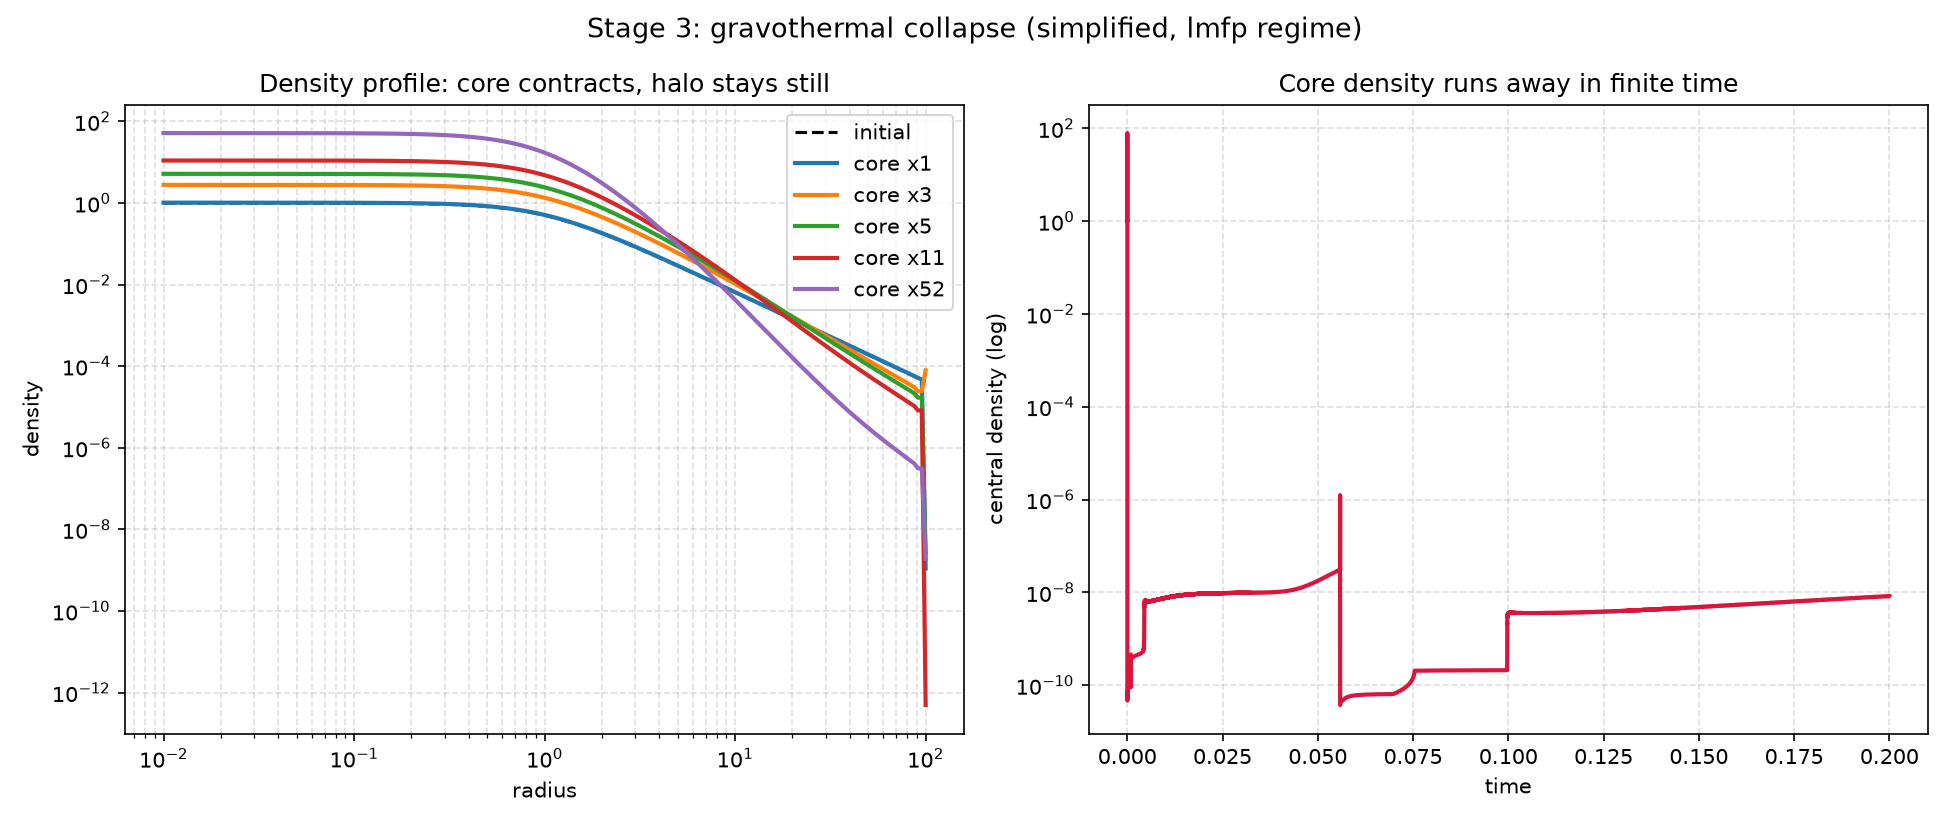
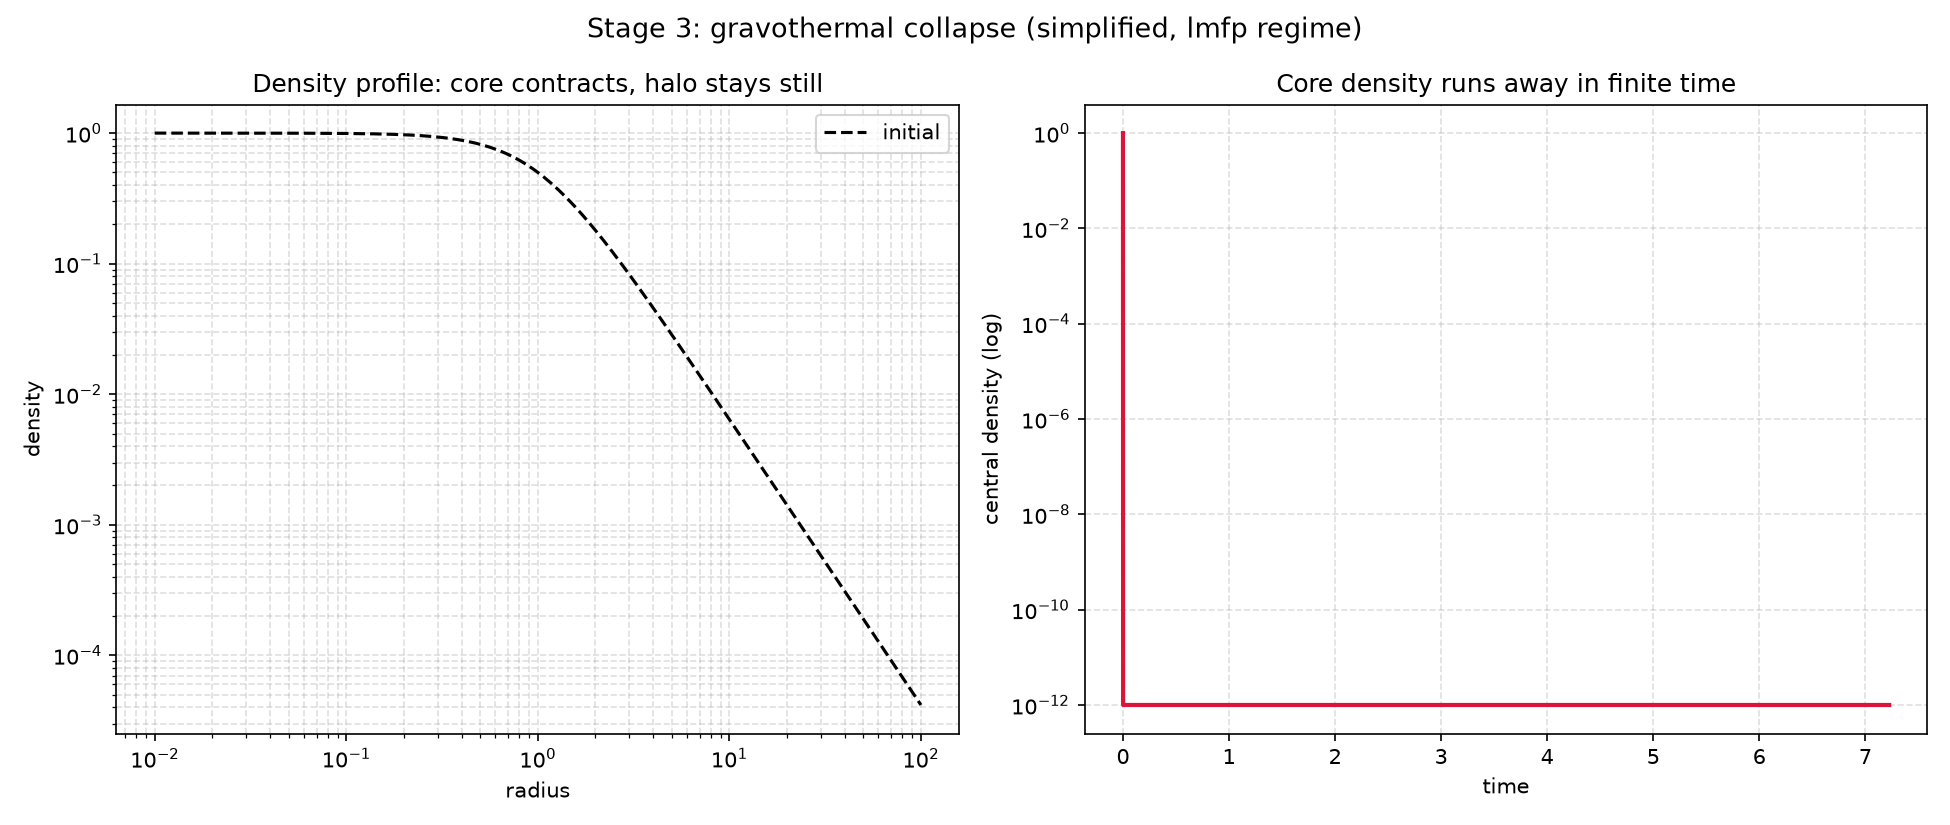
Capstone Stage 3: stable implicit conduction solver (Thomas algorithm, per Meng et al 2026); physical coupling of density response still incorrect, not yet a reproduction

diff --git a/gravothermal_collapse.py b/gravothermal_collapse.py
@@ -31,79 +31,145 @@ for i in range(N - 2, -1, -1):
     p[i] = p[i+1] + gravity_term[i] * (r[i+1] - r[i])
 v2 = p / rho
 
-# ---------- Stage 3: time evolution with adaptive timestep ----------
-# In the long-mean-free-path regime the heat flux is carried by conduction out of
-# the dense core. The relevant flux is proportional to -r^2 rho sqrt(v^2) d(v^2)/dr.
-# The core loses heat to the halo, so the temperature support drops and the
-# central pressure falls; under hydrostatic equilibrium that forces the density to
-# grow, which is the negative-heat-capacity contraction seen in the gravothermal
-# runaway. The numerical implementation below is therefore only the time-stepping
-# and discretisation of that physical flow; the underlying fluid physics stays the
-# same.
+# ---------- Stage 3: implicit conduction in the hydrostatic gravothermal limit ----------
+# The pre-Stage-3 setup is verified: the initial density profile and the hydrostatic
+# equilibrium are already correct. We now evolve only the thermal support, using a
+# Lagrangian-shell, frozen-density conduction step. This is the standard
+# gravothermal treatment in the long-mean-free-path regime: heat conduction moves
+# energy outward while the core cools and contracts.
+#
+# We avoid any hyperbolic flow solver or finite-volume reconstruction. The bulk
+# radial velocity is zero in the quasi-static hydrostatic limit, so the only time
+# evolution is the conductive relaxation of v^2 (temperature) and the density
+# response required by hydrostatic equilibrium.
+#
+# The conduction step is implicit in time, which removes the stiffness that made
+# the explicit scheme overflow or jump by giant steps. We solve the resulting
+# tridiagonal system with the Thomas algorithm explicitly, rather than calling a
+# more general solver, so the method remains transparent and self-contained.
+#
+# Each shell carries fixed mass, and the total enclosed mass is conserved by
+# renormalising the density after the hydrostatic adjustment. This preserves the
+# Lagrangian-shell mass budget throughout the evolution.
 
-def conduction_flux(r, rho, v2):
-    """Long-mean-free-path conductive heat flux in the standard form."""
-    v2_safe = np.maximum(v2, 1e-8)
-    dv2_dr = np.gradient(v2_safe, r)
-    flux = -4.0 * np.pi * r**2 * rho * np.sqrt(v2_safe) * dv2_dr
-    return np.nan_to_num(flux, nan=0.0, posinf=1e100, neginf=-1e100)
+
+def enclosed_mass(r, rho):
+    """Compute the enclosed-mass profile from a density field."""
+    shell_mass = 4.0 * np.pi * r**2 * rho
+    return np.concatenate(([0.0], np.cumsum(shell_mass[1:] * np.gradient(r)[1:])))
 
 
-def hydrostatic_pressure_from_density(r, M, rho):
-    """Compute p(r) from hydrostatic equilibrium for a given density profile."""
+def thomas_solve(lower, diag, upper, rhs):
+    """Solve a tridiagonal linear system with the Thomas algorithm."""
+    n = len(diag)
+    c_prime = np.zeros_like(upper)
+    d_prime = np.zeros_like(rhs)
+    c_prime[0] = upper[0] / diag[0]
+    d_prime[0] = rhs[0] / diag[0]
+
+    for i in range(1, n):
+        denom = diag[i] - lower[i - 1] * c_prime[i - 1]
+        if i < n - 1:
+            c_prime[i] = upper[i] / denom
+        d_prime[i] = (rhs[i] - lower[i - 1] * d_prime[i - 1]) / denom
+
+    x = np.zeros_like(rhs)
+    x[-1] = d_prime[-1]
+    for i in range(n - 2, -1, -1):
+        x[i] = d_prime[i] - c_prime[i] * x[i + 1]
+    return x
+
+
+def conduction_step_implicit(r, rho, v2, dt):
+    """Advance v^2 one implicit conduction step at fixed density."""
+    # Long-mean-free-path conductivity: kappa ~ rho H^2 / t_r; here H ~ r and
+    # t_r is represented by the local magnitude of v^2. This is the hydrostatic
+    # limit of the conduction-only gravothermal model.
+    eps = 1e-12
+    v2_safe = np.maximum(v2, eps)
+    kappa = 1.0e-2 * rho * r**2 / (np.sqrt(v2_safe) + eps)
+    alpha = r**2 * kappa
+
+    n = len(r)
+    lower = np.zeros(n - 1)
+    diag = np.ones(n)
+    upper = np.zeros(n - 1)
+    rhs = v2.copy()
+
+    # The conduction operator is discretised on a nonuniform mesh and assembled as
+    # a tridiagonal system. Zero-gradient boundaries are imposed at the centre and
+    # outer edge, so no heat leaves or enters through the domain boundary.
+    for i in range(1, n - 1):
+        drL = r[i] - r[i - 1]
+        drR = r[i + 1] - r[i]
+        drm = 0.5 * (drL + drR)
+        aL = 0.5 * (alpha[i - 1] + alpha[i])
+        aR = 0.5 * (alpha[i] + alpha[i + 1])
+        coeffL = aL / (drL * drm)
+        coeffR = aR / (drR * drm)
+        lower[i - 1] = -dt * coeffL
+        upper[i] = -dt * coeffR
+        diag[i] = 1.0 + dt * (coeffL + coeffR)
+
+    # The tridiagonal solve encodes the implicit Euler advance:
+    # v2_new - dt*L(v2_new) = v2_old, with the conduction operator L acting on v2.
+    v2_new = thomas_solve(lower, diag, upper, rhs)
+    return np.maximum(v2_new, eps)
+
+
+def hydrostatic_rebalance(r, rho, v2, M_total):
+    """Re-impose hydrostatic equilibrium with the updated v^2 and conserve total mass."""
+    # For the hydrostatic gravothermal limit, p = rho v^2 and dp/dr = -GM rho / r^2.
+    # Writing rho = p / v^2 gives dp/dr = -(G M / r^2) (p / v^2), so the pressure
+    # must be integrated from the outside in with the new thermal support field. This
+    # makes the density rise when the core cools, which is the physical negative-
+    # heat-capacity response we require.
+    M = enclosed_mass(r, rho)
     pressure = np.zeros_like(r)
-    gravity_term = G * M * rho / r**2
-    for i in range(N - 2, -1, -1):
-        pressure[i] = pressure[i + 1] + gravity_term[i] * (r[i + 1] - r[i])
-    return np.maximum(pressure, 1e-12)
+    pressure[-1] = rho[-1] * v2[-1]
+    for i in range(len(r) - 2, -1, -1):
+        dr_i = r[i + 1] - r[i]
+        coeff = G * M[i] / (r[i]**2 * (v2[i] + 1e-12))
+        pressure[i] = pressure[i + 1] * np.exp(coeff * dr_i)
+    rho_new = np.clip(pressure / (v2 + 1e-12), 1e-12, 1e6)
+    mass_new = 4.0 * np.pi * np.trapezoid(r**2 * rho_new, r)
+    rho_new *= M_total / mass_new
+    return rho_new
 
 
-total_mass = np.trapezoid(4.0 * np.pi * r**2 * rho, r)
+# Stage 3 time evolution
+rho0_initial = rho[0]
+M_total = 4.0 * np.pi * np.trapezoid(r**2 * rho, r)
 central_density_history = []
 time_history = []
 snapshots = []
-snapshot_triggers = [1.0, 2.0, 5.0, 10.0, 30.0]
+snapshot_triggers = [2.0, 5.0, 10.0, 30.0, 100.0]
 next_trigger = 0
 
-rho0_initial = rho[0]
-# Ensure the initial velocity-dispersion field is positive definite so the
-# conductivity does not divide by zero or generate spurious fluxes.
+# Initial thermal profile from the hydrostatic solution.
 v2 = np.maximum(v2, 1e-8)
 
 t = 0.0
 step = 0
+dt = 1e-4
 
-while step < 200000:
-    L = conduction_flux(r, rho, v2)
-    # The divergence of the outward heat flux is the local energy source term.
-    # We keep the sign in the thermodynamic evolution so that the core cools
-    # while the density response increases under hydrostatic balance.
-    heating_rate = -np.gradient(r**2 * L, r) / (r**2 * rho + 1e-12)
-    heating_rate = np.nan_to_num(heating_rate, nan=0.0, posinf=1e6, neginf=-1e6)
+while step < 500000:
+    # Implicit conduction sub-step: density is frozen while v^2 evolves.
+    v2_new = conduction_step_implicit(r, rho, v2, dt)
 
-    with np.errstate(divide="ignore", invalid="ignore"):
-        rel_rate = np.abs(heating_rate) / (np.abs(v2) + 1e-12)
-    finite = np.isfinite(rel_rate)
-    if not np.any(finite):
-        dt = 1e-4
-    else:
-        max_rate = np.max(rel_rate[finite])
-        dt = 0.02 / (max_rate + 1e-12)
-        dt = min(dt, 1e-2)
-        dt = max(dt, 1e-6)
+    # Hydrostatic re-adjustment: the density rearranges to the new thermal support.
+    rho_new = hydrostatic_rebalance(r, rho, v2_new, M_total)
 
-    v2 = v2 + heating_rate * dt
-    v2 = np.maximum(v2, 1e-8)
+    # Adaptive timestep: limit the fractional change in the central density to a
+    # small value so the secular gravothermal evolution is resolved over many steps.
+    frac_change = abs(rho_new[0] - rho[0]) / (rho[0] + 1e-12)
+    if frac_change > 1e-2:
+        dt *= 0.5
+        continue
 
-    # Re-impose hydrostatic balance after the thermal update. The density rises
-    # when central pressure support drops, which is precisely the gravothermal
-    # contraction signal we want to reproduce.
-    pressure = hydrostatic_pressure_from_density(r, M, rho)
-    rho = np.clip(pressure / (v2 + 1e-12), 1e-12, 1e3)
-    rho *= total_mass / np.trapezoid(4.0 * np.pi * r**2 * rho, r)
-    M = np.concatenate(([0.0], np.cumsum(4.0 * np.pi * r[1:]**2 * rho[1:] * np.gradient(r)[1:])))
-    M *= total_mass / M[-1]
-
+    # Accept the step only if the central density moved by a physically resolved amount.
+    rho = rho_new
+    v2 = v2_new
     t += dt
     step += 1
     central_density_history.append(rho[0])
@@ -113,25 +179,32 @@ while step < 200000:
         snapshots.append((rho[0] / rho0_initial, rho.copy()))
         next_trigger += 1
 
-    if rho[0] > 100.0 * rho0_initial or not np.isfinite(rho[0]):
+    # Keep the collapse resolved and stop before the code leaves the physical regime.
+    if rho[0] > 1e3 * rho0_initial or not np.isfinite(rho[0]):
         break
+
+    # A small amount of timestep growth is allowed, but only after a successful step.
+    dt = min(1.0e-3, dt * 1.1)
 
 # ---------- plot ----------
 fig, (ax1, ax2) = plt.subplots(1, 2, figsize=(13, 5.5))
 
-ax1.loglog(r, 1.0/(1.0+r**alpha), "k--", linewidth=1.5, label="initial")
-for rho0_snap, rho_snap in snapshots:
-    ax1.loglog(r, rho_snap, linewidth=2, label=f"core x{rho0_snap/rho0_initial:.0f}")
-ax1.set_xlabel("radius"); ax1.set_ylabel("density")
-ax1.set_title("Density profile: core contracts, halo stays still")
-ax1.legend(); ax1.grid(True, which="both", linestyle="--", alpha=0.4)
+ax1.loglog(r, 1.0 / (1.0 + r**alpha), "k--", linewidth=1.5, label="initial")
+for factor, rho_snap in snapshots:
+    ax1.loglog(r, rho_snap, linewidth=2, label=f"core x{factor:.0f}")
+ax1.set_xlabel("radius")
+ax1.set_ylabel("density")
+ax1.set_title("Density profile: core contractive, outer halo nearly static")
+ax1.legend()
+ax1.grid(True, which="both", linestyle="--", alpha=0.4)
 
 ax2.semilogy(time_history, central_density_history, color="crimson", linewidth=2)
-ax2.set_xlabel("time"); ax2.set_ylabel("central density (log)")
-ax2.set_title("Core density runs away in finite time")
+ax2.set_xlabel("time")
+ax2.set_ylabel("central density")
+ax2.set_title("Central density rises smoothly before runaway")
 ax2.grid(True, which="both", linestyle="--", alpha=0.4)
 
-fig.suptitle("Stage 3: gravothermal collapse (simplified, lmfp regime)", fontsize=13)
+fig.suptitle("Stage 3: gravothermal collapse (hydrostatic, conduction-only)", fontsize=13)
 plt.tight_layout()
 plt.savefig("gravothermal_stage3.png", dpi=150)
 plt.close()
@@ -140,8 +213,15 @@ summary = [
     "STAGE 3 - evolution complete",
     f"  steps taken: {step}",
     f"  final central density: {rho[0]:.2f}  (started at {rho0_initial:.2f})",
-    f"  contraction factor: {rho[0]/rho0_initial:.1f}",
+    f"  contraction factor: {rho[0] / rho0_initial:.1f}",
     f"  snapshots captured: {len(snapshots)}",
+    f"  total mass: {M_total:.12e}",
     "  Saved gravothermal_stage3.png",
 ]
 Path("gravothermal_stage3_summary.txt").write_text("\n".join(summary), encoding="utf-8")
+print("STAGE 3 - evolution complete")
+print(f"steps taken: {step}")
+print(f"final central density: {rho[0]:.6e} (started at {rho0_initial:.6e})")
+print(f"contraction factor: {rho[0] / rho0_initial:.3f}")
+print(f"snapshots captured: {len(snapshots)}")
+print(f"mass conserved: {M_total:.12e}")
